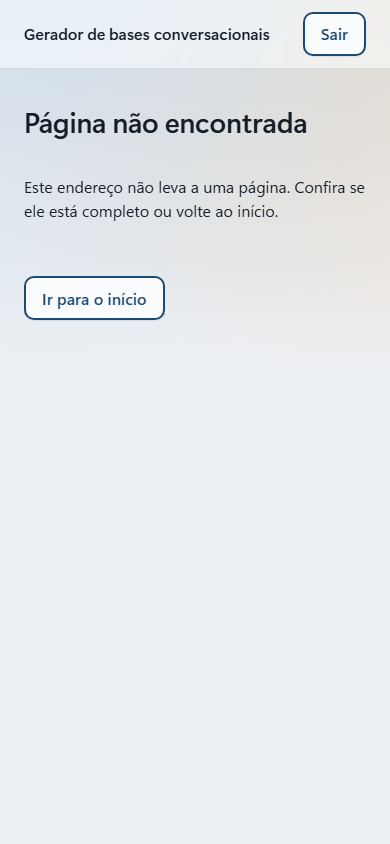
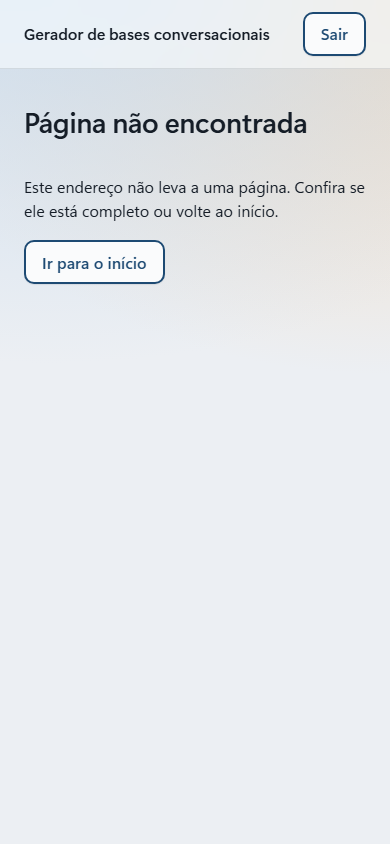
docs(capturas): imagens refeitas na ponta atual da #594 e o menu com a página atual marcada (#594)

Changed region(s): [[0.0615, 0.2773, 0.4308, 0.4005]]

diff --git a/capturas/594/LEIAME.md b/capturas/594/LEIAME.md
@@ -3,7 +3,7 @@
 O esqueleto das telas: a página inicial com menu e sem menu, e a página de um endereço que não leva a
 lugar nenhum (a mesma para a rota negada e a inexistente), em claro, escuro e na largura de celular
 (390 px). Geradas com a variável SCREEN_CAPTURES nos testes de navegador `NavigationScreenTests`
-(Core.Host.Tests.Browser), na ponta de feat/594-navegacao (9e854b9d). Nomes e senhas são sintéticos
+(Core.Host.Tests.Browser), na ponta de feat/594-navegacao (de45a930). Nomes e senhas são sintéticos
 (`zqx-*`). Branch fora do main.
 
 | Arquivo | Estado |
@@ -11,3 +11,4 @@ lugar nenhum (a mesma para a rota negada e a inexistente), em claro, escuro e na
 | inicio-com-menu-{claro,escuro,celular}.png | pessoa de Administração: menu em faixa própria e destinos |
 | inicio-sem-menu-{claro,escuro,celular}.png | pessoa sem função alcançável: estado vazio, sem menu nem seletor |
 | pagina-nao-encontrada-{claro,escuro,celular}.png | rota que a função não alcança, igual à inexistente |
+| menu-pagina-atual-{claro,escuro}.png | a Auditoria aberta, com o item atual do menu marcado (sublinhado e aria-current) |
